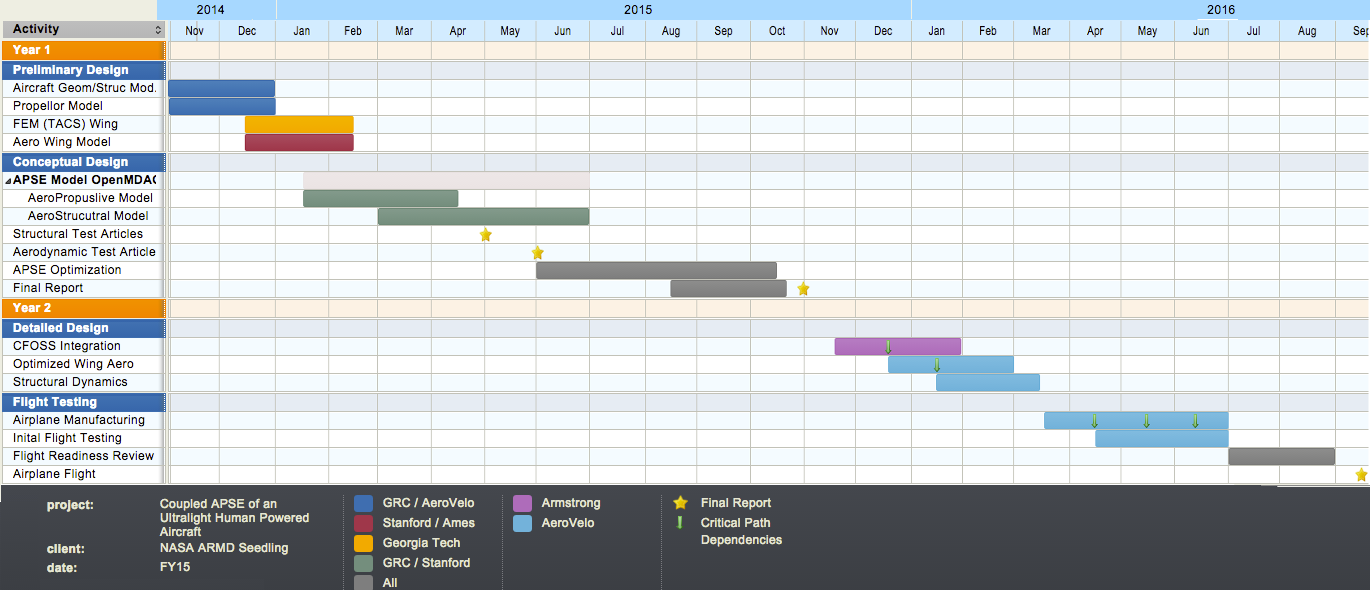
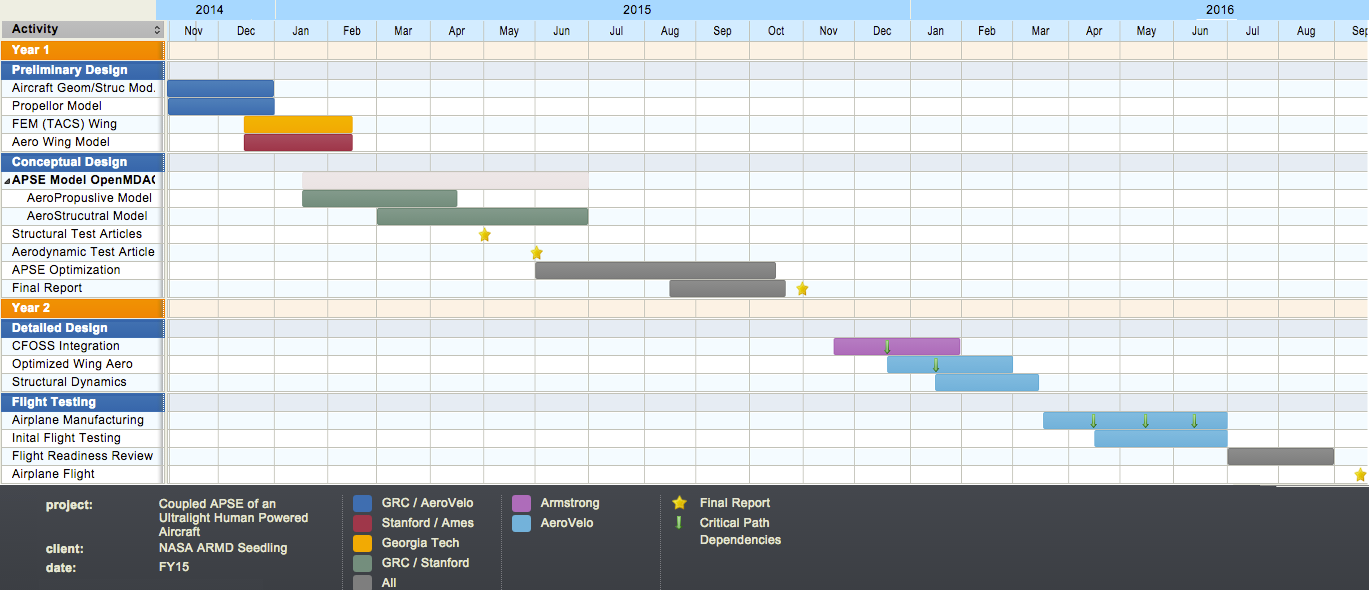
tweak

diff --git a/proposal.tex b/proposal.tex
@@ -556,7 +556,7 @@ step.
 \section{Milestones and Deliverables}
     \subsection{Schedule}
         \begin{figure}
-            \includegraphics[width=\hsize]{images/Gantt_v1}
+            \includegraphics[width=\hsize]{images/Gantt_v2}
         \end{figure}
  \end{landscape}
     \subsection{Milestones}
